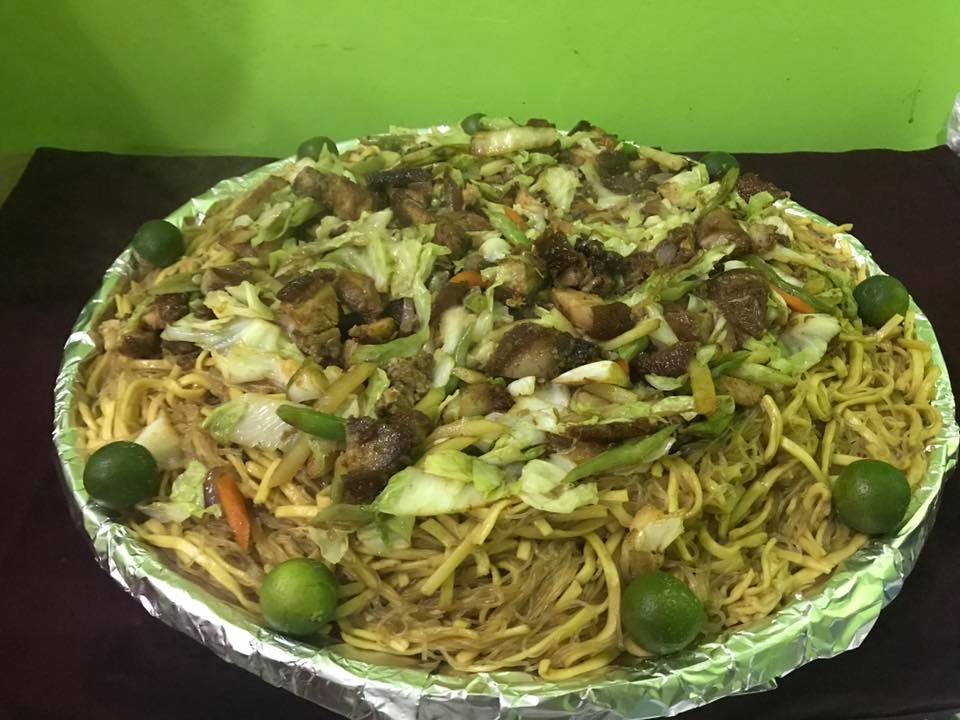
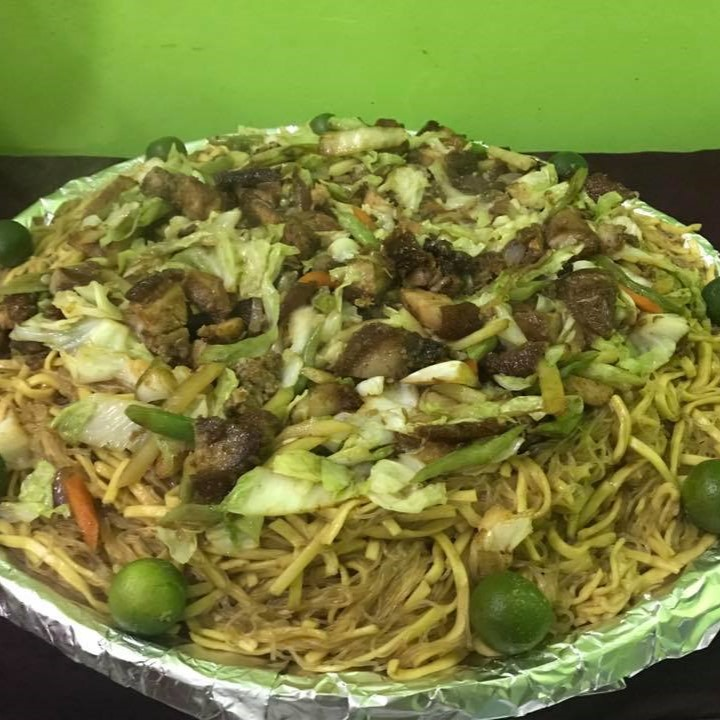
edits images

diff --git a/menu.php b/menu.php
@@ -71,7 +71,7 @@
                     </div><!--CONTENT-MENU-->
                 </div><!--SINGLE-MENU-->
                 <div class="single-menu"><!--SMALL MIKI-->
-                    <img src="largebihon.jpg" alt=""><!--NO PICTURE FOR SMALL MIKI YET-->
+                    <img src="smallmiki.jpg" alt=""><!--NO PICTURE FOR SMALL MIKI YET-->
                     <div class="content-menu">
                         <h5>Miki</h5>
                         <h6><span>P300 / P400</span></h6>
